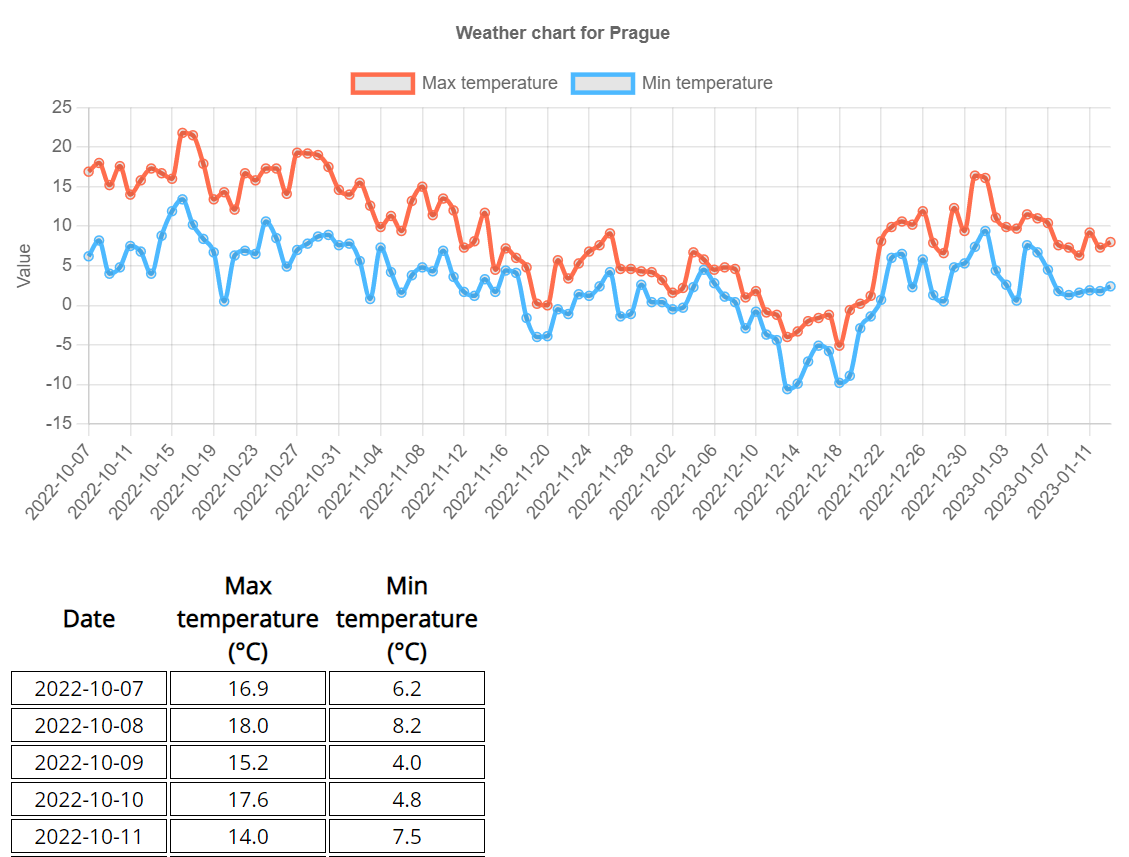
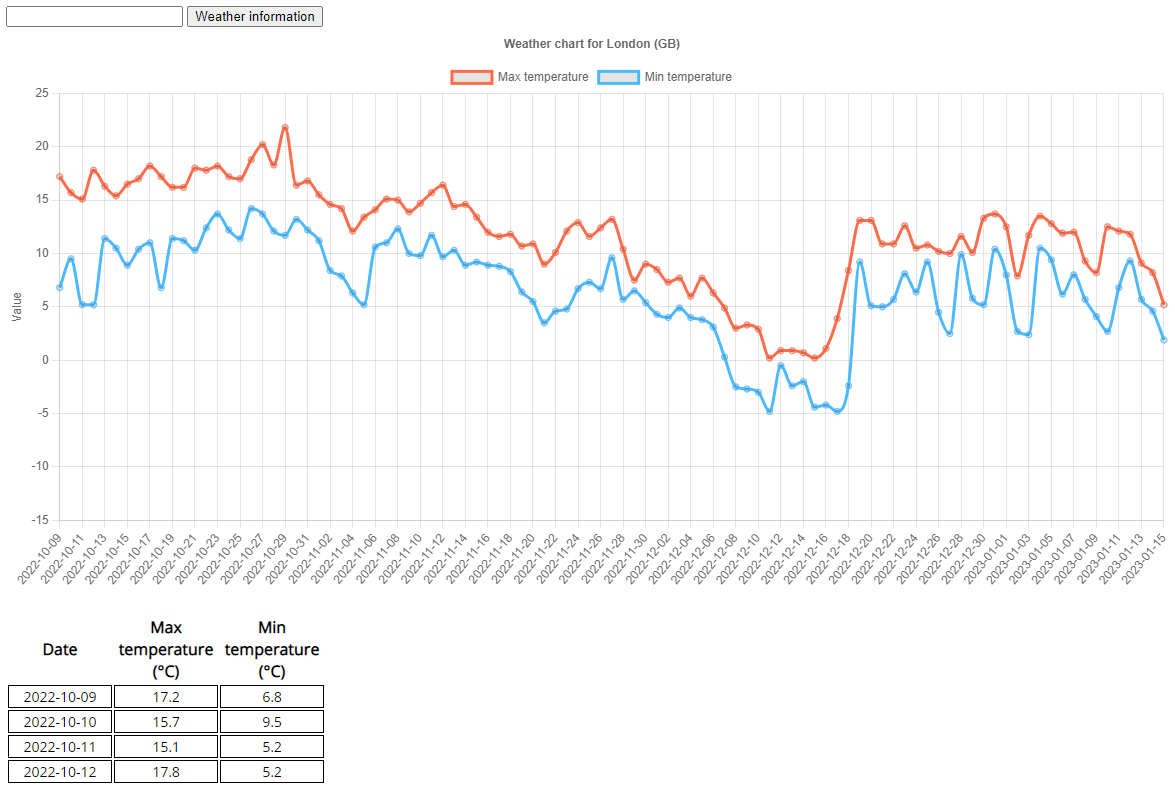
city search bar

diff --git a/app.js b/app.js
@@ -2,150 +2,171 @@
 // http://api.openweathermap.org/geo/1.0/direct?q={city name},{state code},{country code}&limit={limit}&appid={API key}
 // https://api.open-meteo.com/v1/forecast?latitude=51.92&longitude=4.48&daily=temperature_2m_max,temperature_2m_min,precipitation_sum,shortwave_radiation_sum&timezone=Europe%2FBerlin
 
-const city = "Prague"
+let city = "London"
+
+let myChart;
+
+let init = 0;
+
+//################### Application for one city
 
 const apiCall = async () => {
 
-    // Fetch coordinates data for given city
+  // Fetch coordinates data for given city
 
-    // const cityName = "Paris";
-    // const apiKey = "";
-    // const endpointGeo = new URL(`http://api.openweathermap.org/geo/1.0/direct?`);
-    // endpointGeo.searchParams.set("q",cityName);
-    // endpointGeo.searchParams.set("appid",apiKey);
-    // console.log(endpointGeo.toString());
+  const apiKey = "";
+  const endpointGeo = new URL(`http://api.openweathermap.org/geo/1.0/direct?`);
+  console.log("city in geo fetch: ",city)
+  endpointGeo.searchParams.set("q",city);
+  endpointGeo.searchParams.set("appid",apiKey);
+  endpointGeo.searchParams.set("limit",5);
+  console.log("endpointGeo :",endpointGeo.toString());
 
-    // const responseGeo = await fetch(endpointGeo);
-    // console.log(responseGeo);
-    // const dataGeo = await responseGeo.json();
-    // console.log(dataGeo);
+  const responseGeo = await fetch(endpointGeo);
+  console.log(responseGeo);
+  const dataGeo = await responseGeo.json();
+  console.log("dataGeo",dataGeo);
 
-    // Fetch weather data for given coordinates
+  // Fetch weather data for given coordinates
 
-    const coordinates = { "latitute" : 50.075, "longitute" : 14.437};
-    const endpointMeteo = new URL(`https://api.open-meteo.com/v1/forecast?latitude=${coordinates.latitute}&longitude=${coordinates.longitute}&daily=temperature_2m_max,temperature_2m_min,precipitation_sum,shortwave_radiation_sum&timezone=Europe%2FBerlin&past_days=92`)
-    
-    const responseMeteo = await fetch(endpointMeteo);
-    console.log(responseMeteo);
-    const dataMeteo = await responseMeteo.json();
-    console.log(dataMeteo);
+  const coordinates = { "latitute" : dataGeo[0].lat, "longitute" : dataGeo[0].lon};
+  const endpointMeteo = new URL(`https://api.open-meteo.com/v1/forecast?latitude=${coordinates.latitute}&longitude=${coordinates.longitute}&daily=temperature_2m_max,temperature_2m_min,precipitation_sum,shortwave_radiation_sum&timezone=Europe%2FBerlin&past_days=92`)
+  
+  const responseMeteo = await fetch(endpointMeteo);
+  console.log(responseMeteo);
+  const dataMeteo = await responseMeteo.json();
+  console.log(dataMeteo);
 
-    // Table with last 3 months temperatures
+  // Table with last 3 months temperatures
 
-    const dates = dataMeteo.daily.time;
-    const temperaturesMax = dataMeteo.daily.temperature_2m_max;
-    const temperaturesMin = dataMeteo.daily.temperature_2m_min;
+  const dates = dataMeteo.daily.time;
+  const temperaturesMax = dataMeteo.daily.temperature_2m_max;
+  const temperaturesMin = dataMeteo.daily.temperature_2m_min;
 
-    const table = document.createElement('table');
+  const table = document.createElement('table');
 
-    const headerRow = document.createElement('tr');
+  const headerRow = document.createElement('tr');
 
-    const dateHeader = document.createElement('th');
-    dateHeader.textContent = 'Date';
-    headerRow.appendChild(dateHeader);
+  const dateHeader = document.createElement('th');
+  dateHeader.textContent = 'Date';
+  headerRow.appendChild(dateHeader);
 
-    const temperatureHeaderMax = document.createElement('th');
-    temperatureHeaderMax.textContent = 'Max temperature (°C)';
-    headerRow.appendChild(temperatureHeaderMax);
+  const temperatureHeaderMax = document.createElement('th');
+  temperatureHeaderMax.textContent = 'Max temperature (°C)';
+  headerRow.appendChild(temperatureHeaderMax);
 
-    const temperatureHeaderMin = document.createElement('th');
-    temperatureHeaderMin.textContent = 'Min temperature (°C)';
-    headerRow.appendChild(temperatureHeaderMin);
+  const temperatureHeaderMin = document.createElement('th');
+  temperatureHeaderMin.textContent = 'Min temperature (°C)';
+  headerRow.appendChild(temperatureHeaderMin);
 
-    table.appendChild(headerRow);
+  table.appendChild(headerRow);
 
-    const rep = (temperature) => {
-        return Number.parseFloat(temperature).toFixed(1);
-      }
-
-    for (let i = 0; i < dates.length; i++) {
-        const row = document.createElement('tr');
-        const dateCell = document.createElement('td');
-        dateCell.textContent = dates[i];
-        row.appendChild(dateCell);
-
-        const temperatureMaxCell = document.createElement('td');
-        temperatureMaxCell.textContent = rep(temperaturesMax[i]);
-        row.appendChild(temperatureMaxCell);
-
-        const temperatureMinCell = document.createElement('td');
-        temperatureMinCell.textContent = rep(temperaturesMin[i]);
-        row.appendChild(temperatureMinCell);
-
-        table.appendChild(row);
+  const rep = (temperature) => {
+      return Number.parseFloat(temperature).toFixed(1);
     }
-    document.body.appendChild(table);
 
-    // chart for temperatures
+  for (let i = 0; i < dates.length; i++) {
+      const row = document.createElement('tr');
+      const dateCell = document.createElement('td');
+      dateCell.textContent = dates[i];
+      row.appendChild(dateCell);
 
-    const ctx = document.getElementById('myChart');
+      const temperatureMaxCell = document.createElement('td');
+      temperatureMaxCell.textContent = rep(temperaturesMax[i]);
+      row.appendChild(temperatureMaxCell);
 
-    const DATA_COUNT = temperaturesMax.length;
-    const labels = dates;
-    // for (let i = 0; i < DATA_COUNT; ++i) {
-    //     labels.push(i.toString());
-    // }
+      const temperatureMinCell = document.createElement('td');
+      temperatureMinCell.textContent = rep(temperaturesMin[i]);
+      row.appendChild(temperatureMinCell);
 
-    const datapoints = {"data_1": temperaturesMax, "data_2" : temperaturesMin};
+      table.appendChild(row);
+  }
+  document.body.appendChild(table);
 
-    const data = {
-        labels: labels,
-        datasets: [
-            {
-            label: 'Max temperature',
-            data: datapoints.data_1,
-            borderColor: "#FF6D4D",
-            fill: false,
-            cubicInterpolationMode: 'monotone',
-            tension: 0.4
-            },
-            {
-                label: 'Min temperature',
-                data: datapoints.data_2,
-                borderColor: "#4DB9FF",
-                fill: false,
-                cubicInterpolationMode: 'monotone',
-                tension: 0.4
+  // chart for temperatures
+
+  if(init > 0){myChart.destroy();}
+
+  const ctx = document.getElementById('myChart');
+
+  const labels = dates;
+
+  const datapoints = {"data_1": temperaturesMax, "data_2" : temperaturesMin};
+
+  const data = {
+      labels: labels,
+      datasets: [
+          {
+          label: 'Max temperature',
+          data: datapoints.data_1,
+          borderColor: "#FF6D4D",
+          fill: false,
+          cubicInterpolationMode: 'monotone',
+          tension: 0.4
+          },
+          {
+              label: 'Min temperature',
+              data: datapoints.data_2,
+              borderColor: "#4DB9FF",
+              fill: false,
+              cubicInterpolationMode: 'monotone',
+              tension: 0.4
+          }
+      ]
+  };
+
+  const config = {
+      type: 'line',
+      data: data,
+      options: {
+        responsive: true,
+        plugins: {
+          title: {
+            display: true,
+            text: `Weather chart for ${dataGeo[0].name} (${dataGeo[0].country})`
+          },
+        },
+        interaction: {
+          intersect: false,
+        },
+        scales: {
+          x: {
+            display: true,
+            title: {
+              display: true
             }
-        ]
-};
-
-    const config = {
-        type: 'line',
-        data: data,
-        options: {
-          responsive: true,
-          plugins: {
+          },
+          y: {
+            display: true,
             title: {
               display: true,
-              text: `Weather chart for ${city}`
+              text: 'Value'
             },
-          },
-          interaction: {
-            intersect: false,
-          },
-          scales: {
-            x: {
-              display: true,
-              title: {
-                display: true
-              }
-            },
-            y: {
-              display: true,
-              title: {
-                display: true,
-                text: 'Value'
-              },
-              suggestedMin: -15,
-              suggestedMax: 25
-            }
+            suggestedMin: -15,
+            suggestedMax: 25
           }
-        },
-      };
+        }
+      },
+    };
 
-    new Chart(ctx, config);
+  myChart = new Chart(ctx, config);
 
 }
 
 apiCall();
+
+const button = document.getElementById('button');
+const input = document.getElementById('input');
+
+button.addEventListener('click', function() {
+  init += 1;
+  city = input.value;
+  console.log('city : ',city);
+  apiCall();
+});
+
+input.addEventListener('keydown', function(event) {
+  if (event.key === 'Enter') {
+    button.click();
+  }
+});

diff --git a/index.html b/index.html
@@ -4,12 +4,15 @@
     <meta charset="UTF-8">
     <meta http-equiv="X-UA-Compatible" content="IE=edge">
     <meta name="viewport" content="width=device-width, initial-scale=1.0">
-    <title>Document</title>
+    <title>Temperature</title>
     <link rel = "stylesheet" href="style.css">
     <style> @import url('https://fonts.googleapis.com/css2?family=Open+Sans&family=Raleway:wght@100;400&display=swap'); </style>
 </head>
 <body>
-    
+
+    <input type="text" id="input">
+    <button id="button">Weather information</button>
+
     <div>
         <canvas id="myChart"></canvas>
     </div>

diff --git a/style.css b/style.css
@@ -15,5 +15,3 @@ border: 1px solid #000000;
 tr:hover {
     background-color: #f0f0f0;
 }
-
-  
